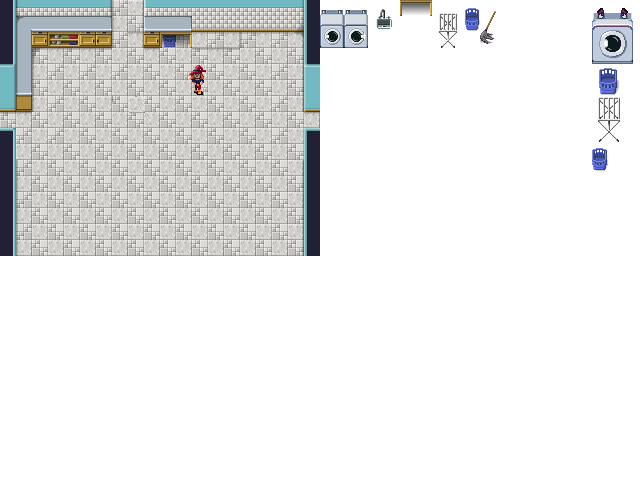
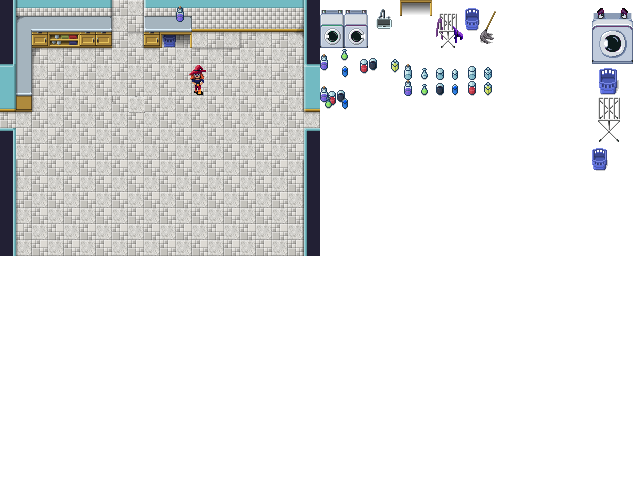
laundry: add clothes to rack, scatter some potions around

Changed region(s): [[0.5, 0.0938, 0.7812, 0.2188], [0.5, 0.1875, 0.5625, 0.2188], [0.6875, 0.0625, 0.7188, 0.0938]]

diff --git a/js/assets.js b/js/assets.js
@@ -493,6 +493,14 @@ const assetDefs = {
 	  {id: "laundry_rack", kind: "sprite", width: 32, height: 48,			xoffset: 16*27, yoffset: 16*0},
 	  {id: "laundry_basket", kind: "sprite", width: 16, height: 32,			xoffset: 16*29, yoffset: 16*0},
 	  {id: "mop", kind: "sprite", width: 16, height: 48,					xoffset: 16*30, yoffset: 16*0},
+	  {id: "potion_purple_o", kind: "sprite", width: 16, height: 32,		xoffset: 16*20, yoffset: 16*3},
+	  {id: "potion_green_o", kind: "sprite", width: 16, height: 16,			xoffset: 16*21, yoffset: 16*3},
+	  {id: "potion_blue_o", kind: "sprite", width: 16, height: 16,			xoffset: 16*21, yoffset: 16*4},
+	  {id: "potion_red_o", kind: "sprite", width: 16, height: 32,			xoffset: 16*22, yoffset: 16*3},
+	  {id: "potion_black_o", kind: "sprite", width: 16, height: 32,			xoffset: 16*23, yoffset: 16*3},
+	  {id: "potion_yellow_o", kind: "sprite", width: 16, height: 32,		xoffset: 16*24, yoffset: 16*3},
+	  {id: "potion_cluster_a", kind: "sprite", width: 16, height: 32,		xoffset: 16*20, yoffset: 16*5},
+	  {id: "potion_cluster_b", kind: "sprite", width: 16, height: 32,		xoffset: 16*21, yoffset: 16*5},
 
 	]},
   ],

diff --git a/js/levels.js b/js/levels.js
@@ -339,6 +339,11 @@ LVL4_MID_GRID.set("laundry_rack", 15, 0);
 LVL4_MID_GRID.set("laundry_basket", 17, 1);
 LVL4_MID_GRID.set("laundry_basket", 11, 0);
 LVL4_MID_GRID.set("mop", 18, 0);
+LVL4_MID_GRID.set("potion_yellow_o", 9, 0);
+LVL4_MID_GRID.set("potion_cluster_a", 10, 0);
+LVL4_MID_GRID.set("potion_cluster_b", 1, 3);
+LVL4_MID_GRID.set("potion_yellow_o", 1, 2);
+LVL4_MID_GRID.set("potion_purple_o", 1, 1);
 
 export const LEVELS = [
 	{

diff --git a/js/scenes.js b/js/scenes.js
@@ -171,7 +171,7 @@ class PlayerSelectScene extends Scene {
 class GameScene extends Scene {
 	constructor() {
 		super();
-		this.levelIndex = 0;
+		this.levelIndex = 3;
 		entitiesManager.onCollision('playerProjectile', 'enemy', (projectile, enemy) => {
 			enemy.hurt(projectile.damage);
 			projectile.die();
